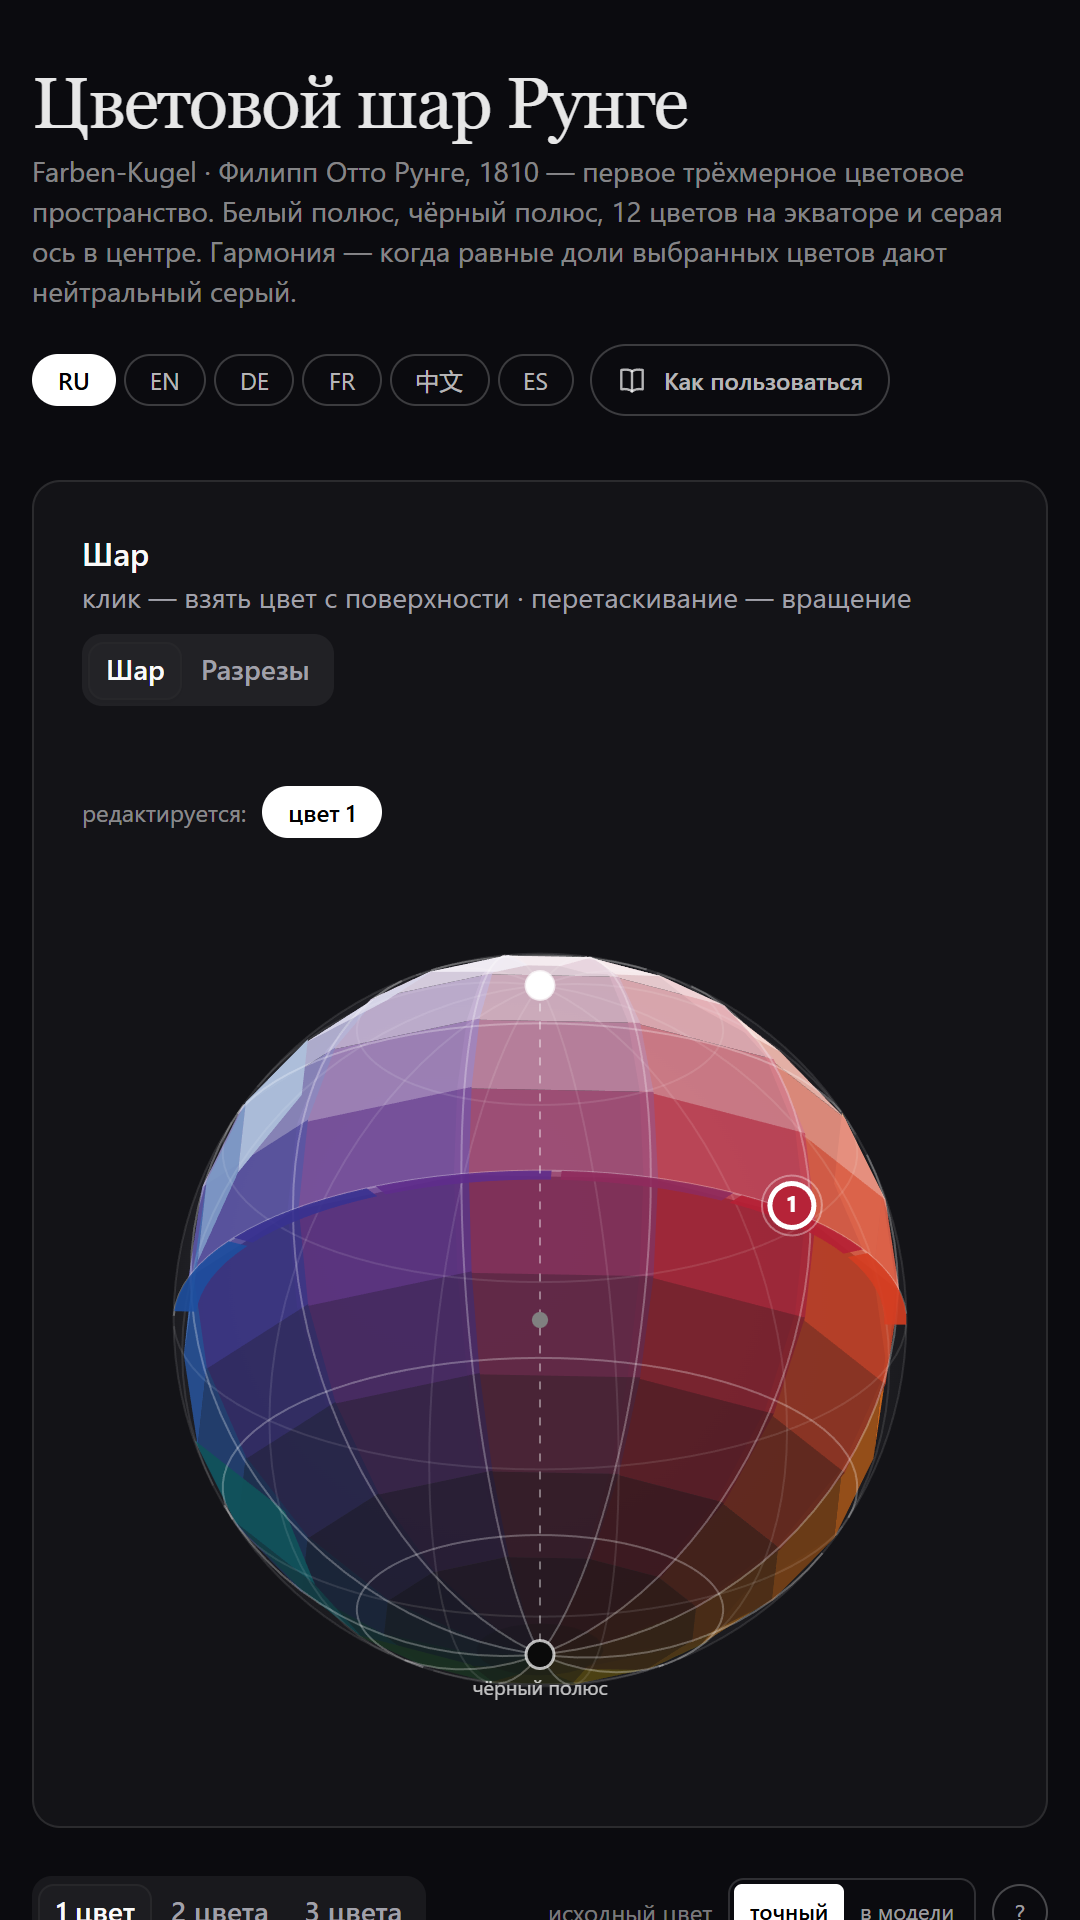
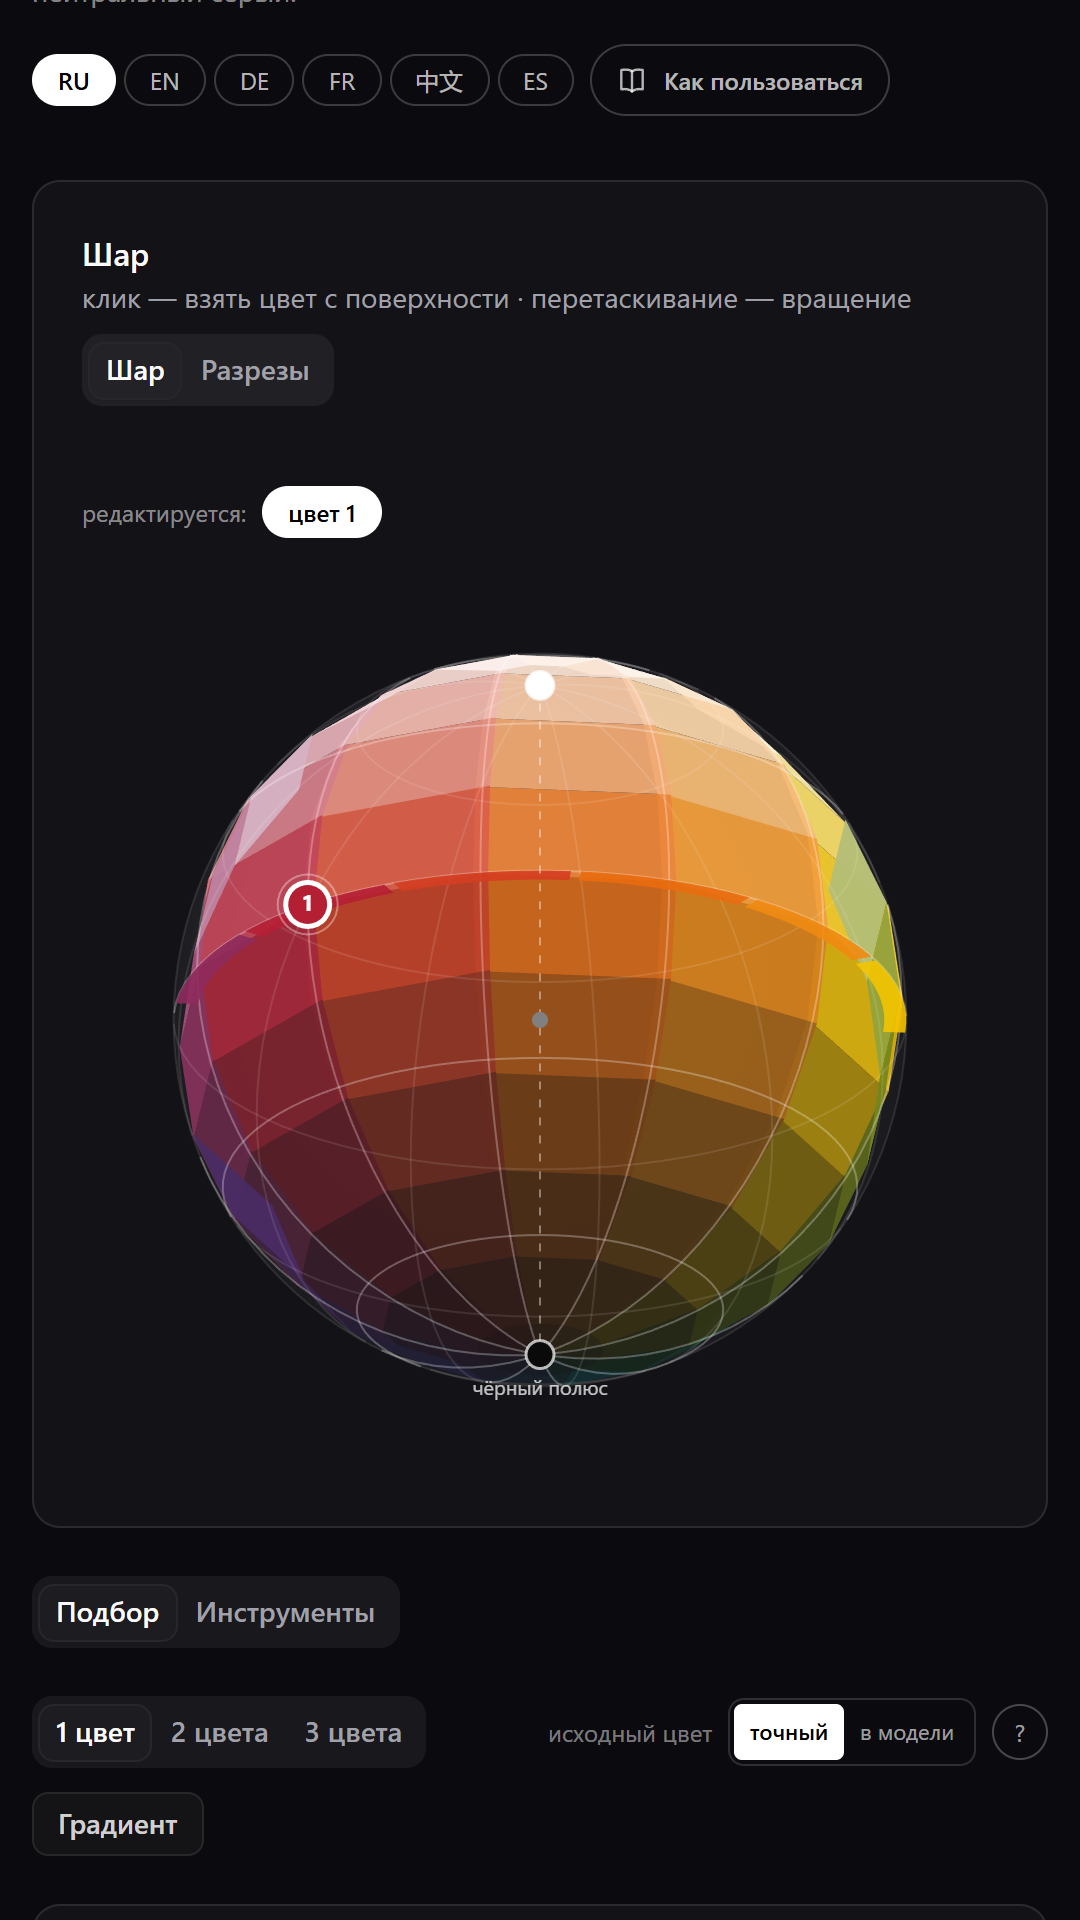
README: обновить под 2.1.1 (APK, хеш, versionCode, новые скриншоты)

diff --git a/README.md b/README.md
@@ -17,9 +17,14 @@
 - **экспорт ASE / GPL / SVG / CSS / JSON** и отправка палитры картинкой;
 - **6 языков**: русский, английский, немецкий, французский, испанский, китайский.
 
+![Смешивание красок: пара цветов под заданный оттенок](screenshots/shot3-mixing-1080x1920.png)
+![Ограниченная палитра: 5 цветов с максимальным покрытием шара](screenshots/shot4-limited-1080x1920.png)
+![Палитра под светом: дневной, тёплый и холодный свет](screenshots/shot5-lighting-1080x1920.png)
+![Палитра по фото: 5 цветов с долями и распознавание схемы](screenshots/shot7-photo-1080x1920.png)
+
 ## Установка
 
-1. Откройте [Releases](../../releases) и скачайте `RungeSphere-2.1.apk` из последнего выпуска.
+1. Откройте [Releases](../../releases) и скачайте `RungeSphere-2.1.1.apk` из последнего выпуска.
 2. Разрешите установку из неизвестных источников, когда система спросит.
 3. Откройте приложение — оно работает без интернета.
 
@@ -27,11 +32,11 @@
 
 ## Текущая версия
 
-**2.1** (1 ноября 2026) — APK: `RungeSphere-2.1.apk`, 4,03 МБ.
+**2.1.1** (1 ноября 2026) — APK: `RungeSphere-2.1.1.apk`, 4 028 920 байт (3,84 МБ), versionCode 11.
 
 SHA-256:
 ```
[2 lines of base64/hex data omitted]
 ```
 
 ## Лицензия
@@ -58,6 +63,6 @@ SHA-256:
 - export ASE / GPL / SVG / CSS / JSON, share palettes as images;
 - interface in Russian, English, German, French, Spanish and Chinese.
 
-**Install:** download `RungeSphere-2.1.apk` from [Releases](../../releases), allow installation from unknown sources. Requires Android 7.0+.
+**Install:** download `RungeSphere-2.1.1.apk` from [Releases](../../releases), allow installation from unknown sources. Requires Android 7.0+.
 
 Free for personal and non-commercial use — see [LICENSE](LICENSE). No data collection, works offline.
